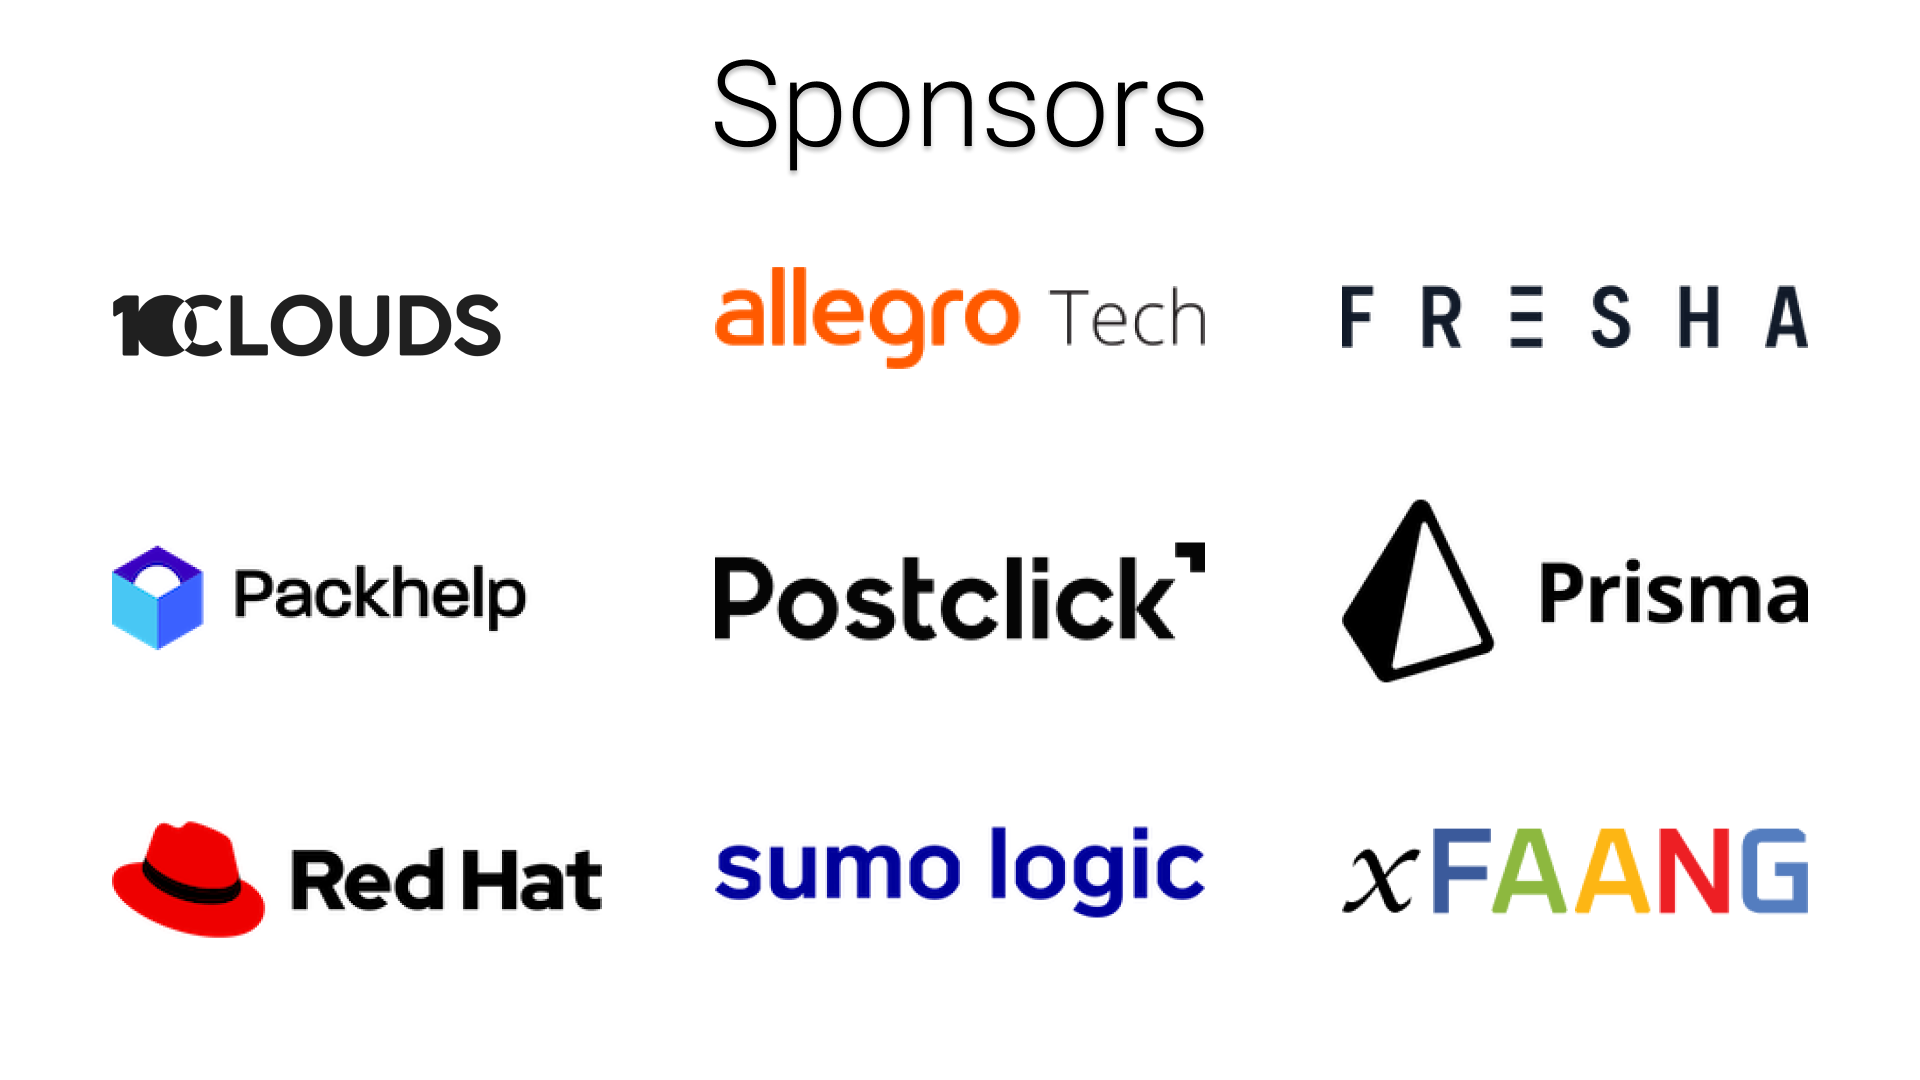
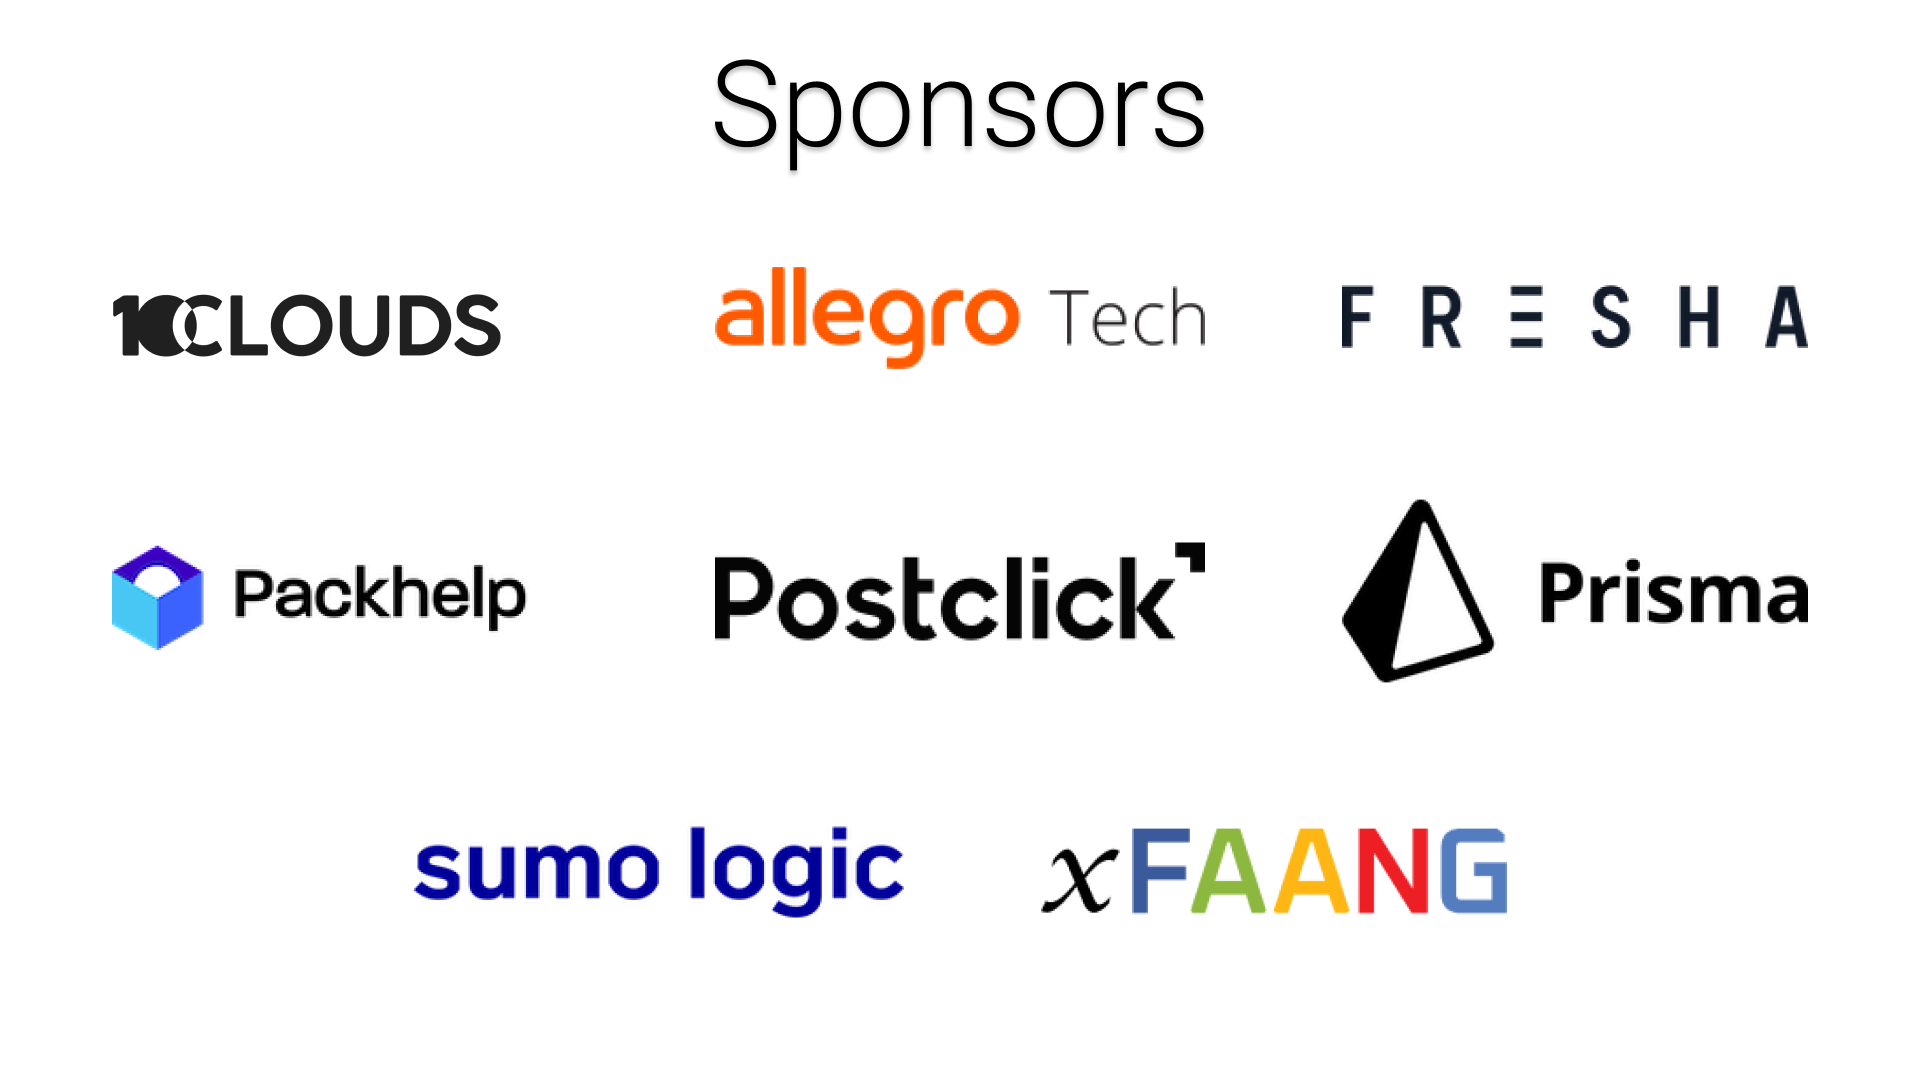
Update sponsors

Changed region(s): [[0.0625, 0.7639, 0.9688, 0.8861]]

diff --git a/index.html b/index.html
@@ -423,7 +423,7 @@
         <img
             class="cover"
             src="images/misc/76_agenda.png"
-            alt="Meetup 75 speakers"
+            alt="Meetup 76 speakers"
         />
     </section>
 
